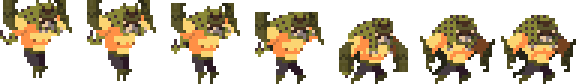
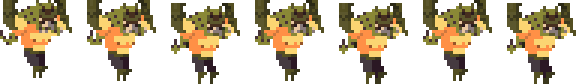
Add flip to sprite of fighter

Changed region(s): [[0.4286, 0.0, 0.9796, 1.0]]

diff --git a/src/Fighter.cpp b/src/Fighter.cpp
@@ -10,8 +10,7 @@
 #define LAYER 0
 
 #define IDLE Fighter::FighterState::IDLE
-#define LEFT Fighter::FighterState::LEFT
-#define RIGHT Fighter::FighterState::RIGHT
+#define RUNNING Fighter::FighterState::RUNNING
 #define JUMPING Fighter::FighterState::JUMPING
 #define FALLING Fighter::FighterState::FALLING
 #define CROUCH Fighter::FighterState::CROUCH
@@ -23,8 +22,7 @@
 //TODO reavaliar se precisa ou não de Camera
 Fighter::Fighter(string name, float x, float y){
 	sprite[IDLE] = Sprite(name + "/idle.png", 8, 30);
-	sprite[LEFT] = Sprite(name + "/left.png", 8, 30);
-	sprite[RIGHT] = Sprite(name + "/right.png", 8, 30);
+	sprite[RUNNING] = Sprite(name + "/running.png", 8, 30);
 	sprite[JUMPING] = Sprite(name + "/jumping.png", 6, 30);
 	sprite[FALLING] = Sprite(name + "/falling.png", 7, 30);
 	sprite[CROUCH] = Sprite(name + "/crouch.png", 6, 30);
@@ -60,6 +58,17 @@ void Fighter::update(float delta){
 	if(inputManager.is_key_down(SDLK_d)){
 		change_state(RIGHT);
 		speed.x = 1.5;
+	}
+
+	if(state != CROUCH){
+		if(inputManager.is_key_down(SDLK_a)){
+			change_state(RUNNING);
+			speed.x = -1.5;
+		}
+		if(inputManager.is_key_down(SDLK_d)){
+			change_state(RUNNING);
+			speed.x = 1.5;
+		}
 	}
 
 	if(inputManager.is_key_down(SDLK_s)){
@@ -131,7 +140,8 @@ void Fighter::post_collision_update(float delta){
 void Fighter::render(){
 	int x = box.get_draw_x()  + 0 * Camera::pos[LAYER].x;
 	int y = box.get_draw_y() + 0 * Camera::pos[LAYER].x;
-	sprite[state].render(x, y, rotation);
+	SDL_RendererFlip flip = speed.x < 0 ? SDL_FLIP_HORIZONTAL : SDL_FLIP_NONE;
+	sprite[state].render(x, y, rotation, flip);
 }
 
 bool Fighter::is_dead(){
@@ -159,11 +169,10 @@ void Fighter::change_state(FighterState cstate){
 }
 
 void Fighter::test_limits(){
-	//TODO config
+	//TODO Matar personagem ao cair do cenario
 	if(box.x < 0) box.x = 0;
 	if(box.x > 1280) box.x = 1280;
-	if(box.y < 0) box.y = 0;
-	if(box.y > 720) box.y = 720;
+	if(box.y < 0 or box.y > 720) box.y = 0;
 }
 
 void Fighter::reset_position(float x, float y){

diff --git a/src/Sprite.cpp b/src/Sprite.cpp
@@ -82,12 +82,12 @@ void Sprite::update(float delta){
 	}
 }
 
-void Sprite::render(int x, int y, float angle){
+void Sprite::render(int x, int y, float angle, SDL_RendererFlip flip){
 	SDL_Rect dstrect = SDL_Rect{x, y, (int)(clip_rect.w * scale_x), (int)(clip_rect.h * scale_y)};
 
 	angle *= (180 / PI);
 	int render_copy = SDL_RenderCopyEx(Game::get_instance().get_renderer(), texture.get(),
-	&clip_rect, &dstrect, angle, nullptr, SDL_FLIP_NONE);
+	&clip_rect, &dstrect, angle, nullptr, flip);
 	if(render_copy){
 		printf("Render: %s\n", SDL_GetError());
 		exit(-1);

diff --git a/include/Sprite.h b/include/Sprite.h
@@ -38,11 +38,11 @@ public:
 	void set_frame_time(float cframe_time);
 
 	void update(float delta);
-	void render(int x, int y, float angle = 0);
+	void render(int x, int y, float angle = 0, SDL_RendererFlip flip = SDL_FLIP_NONE);
 
-  void set_scale_x(float scale);
-  void set_scale_y(float scale);
-  void update_scale_x(float scale);
+  	void set_scale_x(float scale);
+  	void set_scale_y(float scale);
+  	void update_scale_x(float scale);
 };
 
 #endif

diff --git a/include/Fighter.h b/include/Fighter.h
@@ -8,7 +8,7 @@
 
 class Fighter : public GameObject{
 private:
-	enum FighterState {IDLE, LEFT, RIGHT, JUMPING, FALLING, CROUCH};
+	enum FighterState {IDLE, RUNNING, JUMPING, FALLING, CROUCH};
 	Sprite sprite[10];
 	FighterState state;
 	Vector speed;
